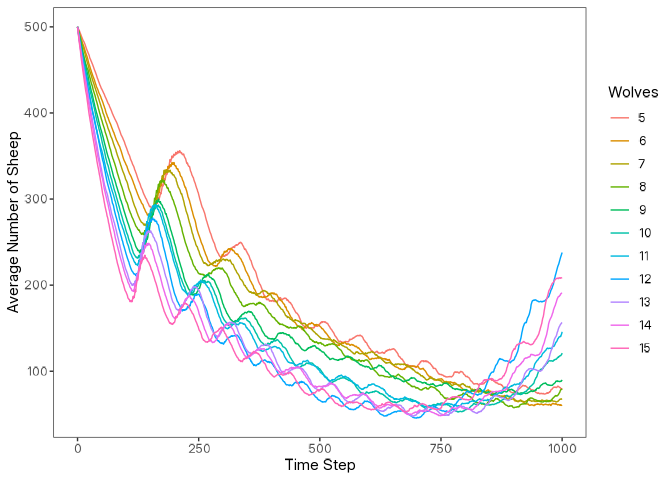
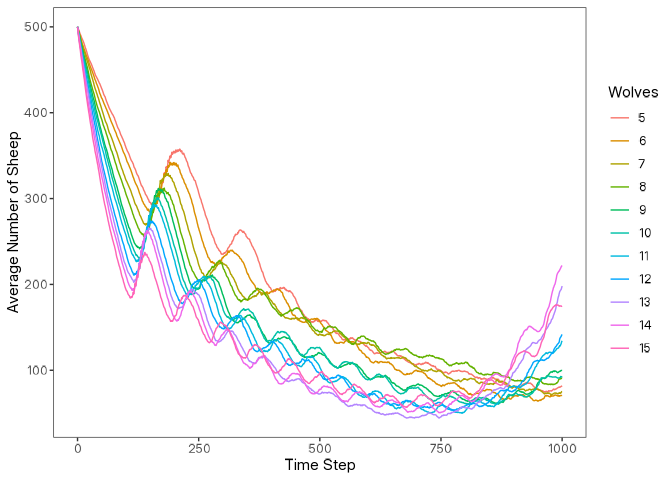
Review documentation

Changed region(s): [[0.125, 0.0938, 0.8438, 0.875], [0.0312, 0.75, 0.0938, 0.7812]]

diff --git a/README.md b/README.md
@@ -73,12 +73,14 @@ and has not been updated since June 2017.
 [`nlrx`](https://CRAN.R-project.org/package=nlrx) offers a powerful
 framework for managing experiments and results but
 [supports](https://docs.ropensci.org/nlrx/reference/supported_netlogo_versions.html)
-only up to NetLogo 6.3.0 (released in September 2022), has additional
-system requirements, presents a steep learning curve, and has [many
-unresolved issues](https://github.com/ropensci/nlrx/issues). `logolink`
-**complements** these packages by prioritizing simplicity, full
-compatibility with NetLogo 7, and seamless integration with modern R
-workflows.
+only up to NetLogo 6.3.0 (released in September 2022), requires
+additional system dependencies, uses its own internal conventions that
+diverge from NetLogo standards, has a steep learning curve, and has
+[many unresolved issues](https://github.com/ropensci/nlrx/issues).
+
+`logolink` **complements** these packages by prioritizing simplicity,
+offering finer control over output, ensuring full compatibility with
+NetLogo 7, and integrating seamlessly with modern R workflows.
 
 ## Installation
 
@@ -261,7 +263,7 @@ library(dplyr)
 results |> glimpse()
 #> List of 2
 #>  $ metadata:List of 6
-#>   ..$ timestamp       : POSIXct[1:1], format: "2026-01-07 21:52:04"
+#>   ..$ timestamp       : POSIXct[1:1], format: "2026-01-07 23:13:36"
 #>   ..$ netlogo_version : chr "7.0.3"
 #>   ..$ output_version  : chr "2.0"
 #>   ..$ model_file      : chr "Wolf Sheep Simple 5.nlogox"
@@ -278,7 +280,7 @@ results |> glimpse()
 #>   ..$ energy_gain_from_sheep: num [1:110110] 5 5 5 5 5 5 5 5 5 5 ...
 #>   ..$ step                  : num [1:110110] 0 1 2 3 4 5 6 7 8 9 ...
 #>   ..$ count_wolves          : num [1:110110] 5 5 5 5 5 5 5 5 5 5 ...
-#>   ..$ count_sheep           : num [1:110110] 500 499 498 497 495 493 493 492 490 489 ...
+#>   ..$ count_sheep           : num [1:110110] 500 499 497 495 494 492 491 491 489 489 ...
 ```
 
 ### Analyzing the Data (Bonus Section)
